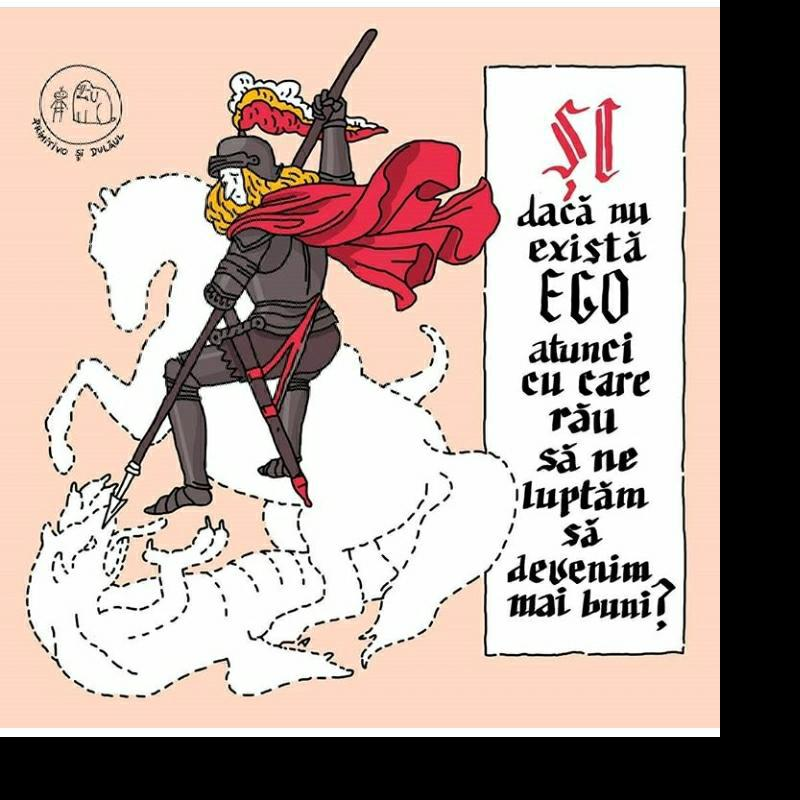
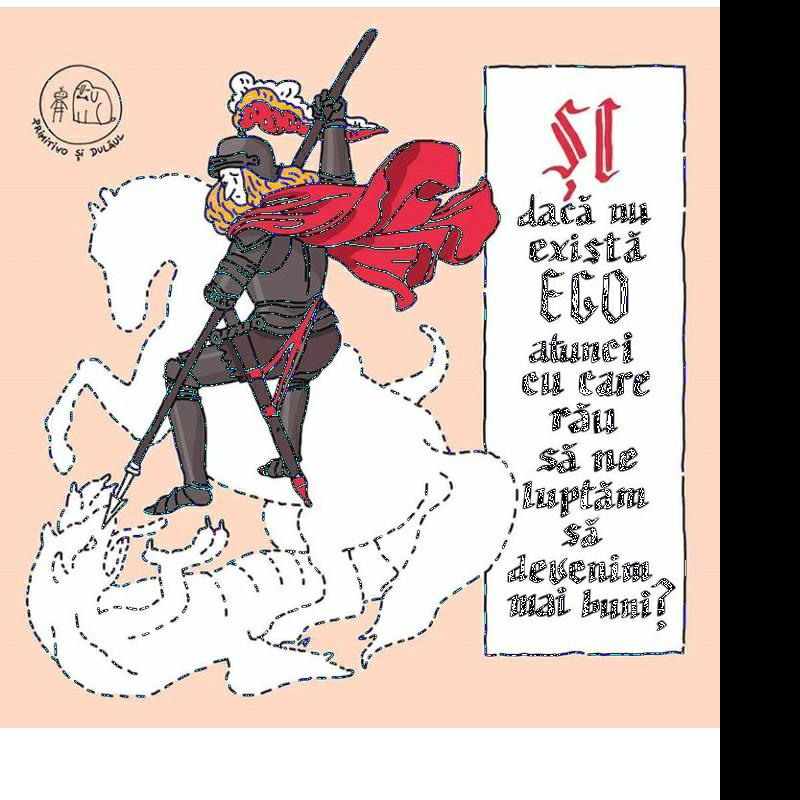
Added resizing; there are some bugs for some (0,0,0) pixels

diff --git a/handler.go b/handler.go
@@ -1,12 +1,13 @@
 package main
 
 import (
-  //"fmt"
+  "fmt"
   "os"
   "image"
   "image/draw"
   "image/jpeg"
   "image/color"
+  "math"
 )
 
 type Filter struct {
@@ -14,7 +15,6 @@ type Filter struct {
 }
 
 func apply_filter(img image.Image, start image.Point, end image.Point, f Filter) {
-  // bounds := img.Bounds();
 
   n := 10
   for i := 0; i < n; i ++ {
@@ -46,6 +46,77 @@ func apply_filter(img image.Image, start image.Point, end image.Point, f Filter)
   }
 }
 
+func min(a, b uint32) uint32 {
+    if a > b {
+        return b
+    } else {
+        return a
+    }
+}
+
+func resize(orig image.Image, ret image.Image) {
+    orig_bounds := orig.Bounds()
+    ret_bounds := ret.Bounds()
+
+    // ratio return to original
+    height_ratio := float64(ret_bounds.Max.Y - ret_bounds.Min.Y) / float64(orig_bounds.Max.Y - orig_bounds.Min.Y)
+    width_ratio := float64(ret_bounds.Max.X - ret_bounds.Min.X) / float64(orig_bounds.Max.X - orig_bounds.Min.X)
+
+    // n := 10
+    // for p := 0; p < n; p ++ {
+    //     go func() {
+    //         rank := p
+
+            for y := orig_bounds.Min.Y /*+ rank*/; y <= orig_bounds.Max.Y; y ++/*+= n*/ {
+                for x := orig_bounds.Min.X; x <= orig_bounds.Max.X; x++ {
+                    r, g, b, a := orig.At(y, x).RGBA()
+
+                    // fmt.Print("[",y,"][",x,"] enters in riles ")
+                    // fmt.Print("from ",uint64(math.Floor(float64(y) * height_ratio))," to ",uint64(math.Ceil(float64(y + 1) * height_ratio)) - 1, " ")
+                    // fmt.Println("and from",uint64(math.Floor(float64(x) * width_ratio)),"to",uint64(math.Ceil(float64(x + 1) * width_ratio)) - 1)
+
+                    for i := uint64(math.Floor(float64(y) * height_ratio)); i < uint64(math.Ceil(float64(y + 1) * height_ratio)); i++ {
+                        for j := uint64(math.Floor(float64(x) * width_ratio)); j < uint64(math.Ceil(float64(x + 1) * width_ratio)); j++ {
+                            nr, ng, nb, na := ret.At(int(i), int(b)).RGBA()
+
+                            proc_h := (math.Min(float64(y + 1) * height_ratio, float64(i + 1)) - math.Max(float64(y) * height_ratio, float64(i))) / height_ratio
+                            proc_w := (math.Min(float64(x + 1) * width_ratio, float64(j + 1)) - math.Max(float64(x) * width_ratio, float64(j))) / width_ratio
+
+                            // if x == 5 && y == 5 {
+                            //     fmt.Println("i =", i)
+                            //     fmt.Println("j =", j)
+                                // fmt.Println("height_ratio =", height_ratio)
+                                // fmt.Println("width_ratio =", width_ratio)
+                                // fmt.Println("proc_h =", proc_h)
+                                // fmt.Println("proc_w =", proc_w)
+                                // fmt.Println("math.Min(float64(y + 1) * height_ratio, float64(i + 1)) =", math.Min(float64(y + 1) * height_ratio, float64(i + 1)))
+                                // fmt.Println("math.Max(float64(y) * height_ratio, float64(i) =", math.Max(float64(y) * height_ratio, float64(i)))
+                                // fmt.Println("math.Min(float64(x + 1) * width_ratio, float64(j + 1)) =", math.Min(float64(x + 1) * width_ratio, float64(j + 1)))
+                                // fmt.Println("math.Max(float64(x) * width_ratio, float64(j)) =", math.Max(float64(x) * width_ratio, float64(j)))
+                                // fmt.Println()
+                            // }
+                            //fmt.Println(nr, "+", uint32(proc_h * proc_w * float64(r)))
+
+                            nr += uint32(proc_h * proc_w * float64(r))
+                            ng += uint32(proc_h * proc_w * float64(g))
+                            nb += uint32(proc_h * proc_w * float64(b))
+                            na += uint32(proc_h * proc_w * float64(a))
+
+                            // nr = min(255 << 8 - 1, nr + uint32(proc_h * proc_w * float64(r)))
+                            // ng = min(255 << 8 - 1, ng + uint32(proc_h * proc_w * float64(g)))
+                            // nb = min(255 << 8 - 1, nb + uint32(proc_h * proc_w * float64(b)))
+                            // na = min(255 << 8 - 1, na + uint32(proc_h * proc_w * float64(a)))
+
+                            ret.(draw.Image).Set(int(i), int(j), color.RGBA{uint8(nr >> 8), uint8(ng >> 8), uint8(nb >> 8), uint8(na >> 24)})
+                        }
+                    }
+                }
+            }
+    //     } ()
+    // }
+
+}
+
 func main() {
   img_file, _ := os.Open("test.jpg")
   defer img_file.Close()
@@ -54,13 +125,18 @@ func main() {
   card := image.NewRGBA(image.Rect(0, 0, 800, 800))
   draw.Draw(card, card.Bounds(), img, image.Point{0, 0}, draw.Src)
 
-  f_elem := float64(1) / 9
-  f := Filter { [3][3]float64 { {f_elem, f_elem, f_elem}, {f_elem, f_elem, f_elem}, {f_elem, f_elem, f_elem}}}
+  // f_elem := float64(1) / 9
+  // f := Filter { [3][3]float64 { {f_elem, f_elem, f_elem}, {f_elem, f_elem, f_elem}, {f_elem, f_elem, f_elem}}}
 
-  apply_filter(card, image.Point {10, 10}, image.Point {400, 400}, f)
+  // apply_filter(card, image.Point {10, 10}, image.Point {100, 100}, f)
+
+  card2 := image.NewRGBA(image.Rect(0, 0, 800, 800))
+  resize(card, card2)
+
+  fmt.Println("done!")
 
   rez, _ := os.Create("new.jpg")
   defer rez.Close()
 
-  jpeg.Encode(rez, card, &jpeg.Options{jpeg.DefaultQuality})
+  jpeg.Encode(rez, card2, &jpeg.Options{jpeg.DefaultQuality})
 }
